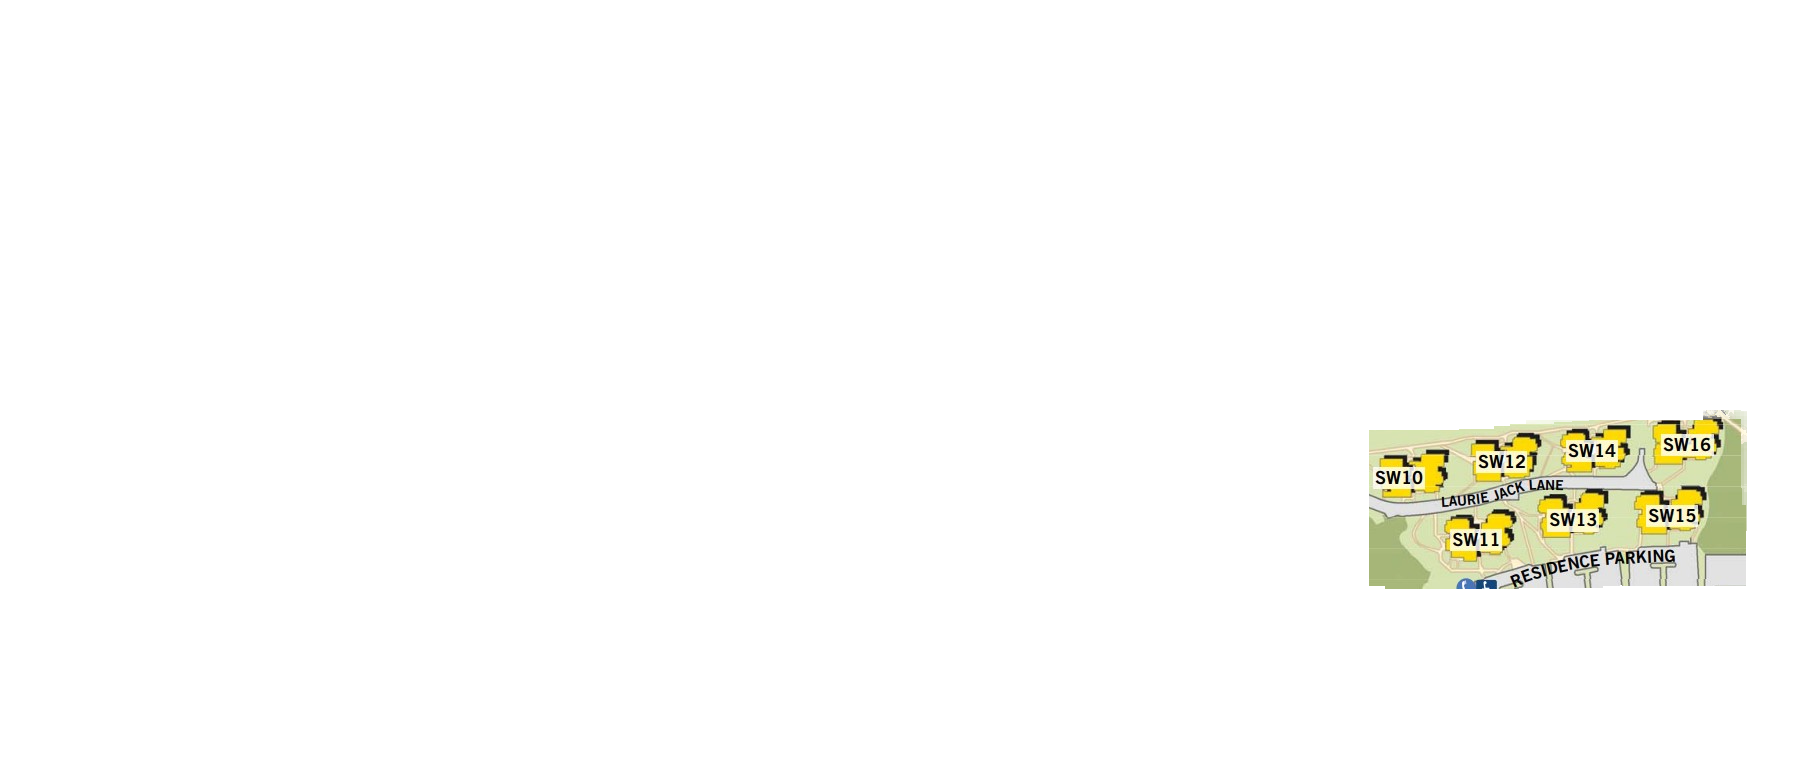
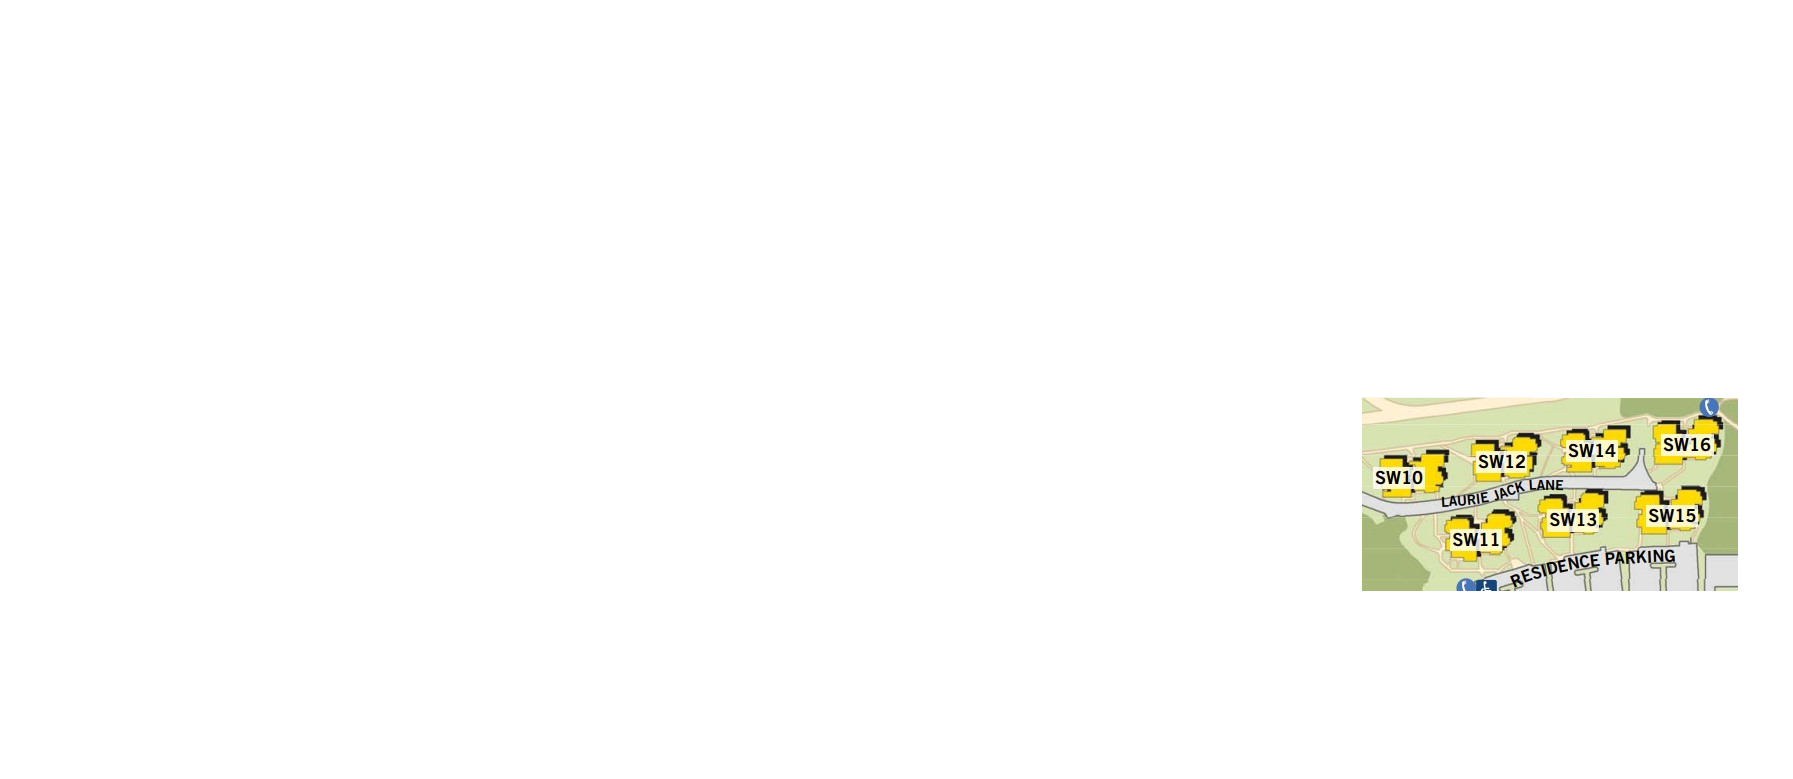
made new image maps and added more buildings

Changed region(s): [[0.7496, 0.4929, 0.9994, 0.7702], [0.8433, 0.7394, 0.9682, 0.7702]]

diff --git a/map.html b/map.html
@@ -69,6 +69,12 @@
         <img class="buildings" id="ne11" src="./images/NE1.png" usemap="#BCITmap">
         <img class="buildings" id="track1" src="./images/Track.png" usemap="#BCITmap">
 
+        <img class="buildings" id="se81" src="./images/SE8.png" usemap="#BCITmap">
+        <img class="buildings" id="se21" src="./images/se2.png" usemap="#BCITmap">
+        <img class="buildings" id="se101" src="./images/se10.png" usemap="#BCITmap">
+        <img class="buildings" id="se61" src="./images/se6.png" usemap="#BCITmap">
+        <img class="buildings" id="se41" src="./images/se4.png" usemap="#BCITmap">
+
 
         <img class="map" id="map" src="./images/BCIT_Map2.jpg" alt="BCIT Map" usemap="#BCITmap">
         <map name="BCITmap">
@@ -77,9 +83,14 @@
             <area id="dorm" shape="rect" coords="1350, 400, 1750, 580" alt="Dorms"
                 href="groupsList.html?buildingId=DORMS">
             <area id="sw9" shape="rect" coords="1140, 480, 1270, 700" alt="SW9" href="groupsList.html?buildingId=SW9">
-            <area id="library" shape="rect" coords="840, 260, 1170, 480" alt="Library"
+            <area id="library" coords="1065,272,1069,425,983,427,983,379,1007,377,1005,272" shape="poly" alt="Library"
                 href="groupsList.html?buildingId=Library">
-            <area id="se12" shape="rect" coords="600, 230, 840, 490" alt="SE12" href="groupsList.html?buildingId=SE12">
+            <area id="se12" alt="se12" title="se12" href="groupsList.html?buildingId=SE12" coords="1046,424,892,420,870,401,842,397,837,478,1051,478,1048,445" shape="poly">
+            <area id="se8" alt="se8" title="se8" href="groupsList.html?buildingId=SE8" coords="729,470,728,394,838,394,835,473,781,472" shape="poly">
+            <area id="se2" alt="se2" title="se2" href="groupsList.html?buildingId=SE2" coords="620,320,604,489,716,486,731,315" shape="poly">
+            <area id="se10" alt="se10" title="se10" href="groupsList.html?buildingId=SE10" coords="927,272,987,273,1003,389,935,397,927,370" shape="poly">
+            <area id="se6" alt="se6" title="se6" href="groupsList.html?buildingId=SE6" coords="731,232,734,388,797,390,794,227" shape="poly">
+            <area id="se4" alt="se4" title="se4" href="groupsList.html?buildingId=SE4" coords="629,229,633,305,721,305,724,232" shape="poly">
             <area id="se1" shape="rect" coords="600, 100, 850, 200" alt="SE1" href="groupsList.html?buildingId=SE1">
             <area id="sw" shape="rect" coords="640, 500, 1010, 710" alt="SW" href="groupsList.html?buildingId=SW">
             <area id="nw" shape="rect" coords="270, 510, 590, 710" alt="NW" href="groupsList.html?buildingId=NW">

diff --git a/styles/mapStyle.css b/styles/mapStyle.css
@@ -221,6 +221,60 @@ main::-webkit-scrollbar-track {
     grid-row: 1;   
 }
 
+#se81{
+    min-width: 1793px;
+    min-height: 779px; 
+    max-width: 1793px;
+    max-height: 779px; 
+    grid-column: 1;
+    grid-row: 1;   
+}
+
+#sw1{
+    min-width: 1793px;
+    min-height: 779px; 
+    max-width: 1793px;
+    max-height: 779px; 
+    grid-column: 1;
+    grid-row: 1;   
+}
+
+#se21{
+    min-width: 1793px;
+    min-height: 779px; 
+    max-width: 1793px;
+    max-height: 779px; 
+    grid-column: 1;
+    grid-row: 1;   
+}
+
+#se101{
+    min-width: 1793px;
+    min-height: 779px; 
+    max-width: 1793px;
+    max-height: 779px; 
+    grid-column: 1;
+    grid-row: 1;   
+}
+
+#se61{
+    min-width: 1793px;
+    min-height: 779px; 
+    max-width: 1793px;
+    max-height: 779px; 
+    grid-column: 1;
+    grid-row: 1;   
+}
+
+#se41{
+    min-width: 1793px;
+    min-height: 779px; 
+    max-width: 1793px;
+    max-height: 779px; 
+    grid-column: 1;
+    grid-row: 1;   
+}
+
 .zhigh{
     z-index: 4;
 }

diff --git a/scripts/map.js b/scripts/map.js
@@ -3,6 +3,7 @@ let buildings = document.querySelectorAll(".buildings");
 let map = document.getElementById("map");
 let wrapper = document.getElementById("wrapper");
 
+//Function for highlighting areas of map on hover
 function mouseAreas(){
     for(let i = 0; i < areas.length; i++){
         let id = areas[i].id;
